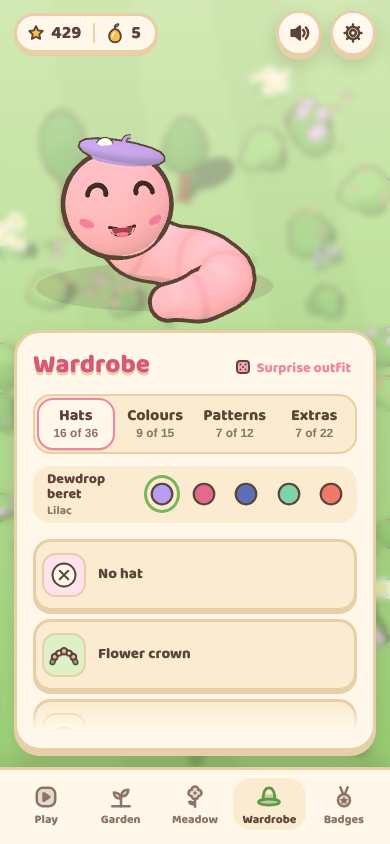
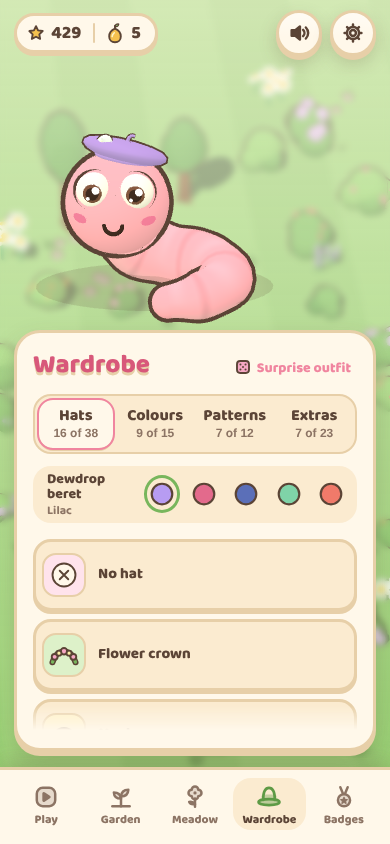
1.25.0: two new chapters, Spring showers and Old orchard
Spring showers (261-270): small, gentle patches with rain, rivers, bridges and cranks. Old orchard (271-280): big,
hardened patches with keys, gates, tunnels and dry patches, ending on the hardest patch in the game.

Claude-Session: https://claude.ai/code/session_018b3cP1De1FMBieJja8GZr1

Changed region(s): [[0.1538, 0.154, 0.4308, 0.3081], [0.4308, 0.2156, 0.4615, 0.2464]]

diff --git a/src/game/ui/news.js b/src/game/ui/news.js
@@ -4,6 +4,7 @@
 // add an entry on top. Returning players see the newest entry once as a card on the Play tab, new players never
 // do (squirm-news holds the last version seen); Settings > About lists them all.
 const NEWS=[
+  ['1.25.0','2026-11-05','Two new chapters',['Spring showers: ten small, gentle patches with rain, rivers, bridges and cranks. Finish it for a paper boat hat.','Old orchard: ten big, tricky patches full of keys, gates, tunnels and cracked earth, ending on the hardest patch yet. Finish it for an apple cap.','A key necklace for opening 50 gates, and five new badges to find.']],
   ['1.24.0','2026-11-05','Racing rewards',['The race card now keeps score for the whole session: rounds, wins, stars and total time for you and your friend.','Win 3 races for a racing helmet with goggles, and race 10 times for a finisher\'s medal. Both come in five colours.','Four new racing badges to collect, including one for asking for rematches.','Your worm only naps while you\'re watching it now, so waiting on the home screen doesn\'t count.']],
   ['1.23.0','2026-11-04','Race a friend',['Race a friend to the burrow! Start a race and share the link, or just tell them the six-letter code to type in, and you both get the same freshly grown patch.','See their worm on your patch as a see-through ghost, in their own colours, hat and extra, then go again with a rematch.','Find it on the home screen or in the app icon\'s shortcut menu. It works best on the same Wi-Fi.']],
   ['1.20.0','2026-11-04','Shine them up',['The garden map now shows where stars are missing: each chapter counts its patches below 3 stars, and turns gold once every patch shines.','A new Shine button takes you straight to the next patch that could use another star, and its card tells you what 3 stars needs.']],
